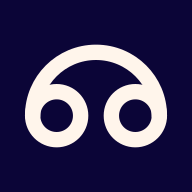
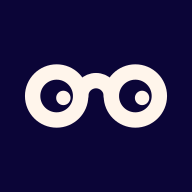
Swap brand defaults to the glasses mark
Replace the embedded favicon, icons, wordmark, mark and email logo with the redesigned brand kit, and rename the docs brand-kit monogram files to baoopn-mark-*. Slot keys and API names stay the same. The email logo is now 640x264 (same aspect), so tests that pin its size use the new dimensions; the rendered width stays 116.

Changed region(s): [[0.125, 0.2188, 0.875, 0.7812]]

diff --git a/web/src/lib/admin/components/BrandMark.svelte b/web/src/lib/admin/components/BrandMark.svelte
@@ -9,7 +9,7 @@
 	const inverse = $derived(brandSize(brand, 'monogram_inverse', 64, 64));
 </script>
 
-<!-- Brand-kit monogram: primary (navy badge) by day, inverse by night. -->
+<!-- Brand-kit glasses mark: primary (navy badge) by day, inverse by night. -->
 <img
 	src={brandSrc(brand, 'monogram_primary')}
 	alt=""

diff --git a/internal/mail/layout_brand_test.go b/internal/mail/layout_brand_test.go
@@ -49,7 +49,7 @@ const testLogo = "https://media.example.test/brand/email-logo.0123456789abcdef.p
 func TestEmailLogo(t *testing.T) {
 	for _, personal := range []bool{false, true} {
 		b := testBrand
-		b.LogoURL, b.LogoWidth, b.LogoHeight = testLogo, 480, 198
+		b.LogoURL, b.LogoWidth, b.LogoHeight = testLogo, 640, 264
 		_, html := render(t, Doc{Brand: b, Personal: personal, Preheader: "Hello there", Kicker: "K", Title: "T",
 			Blocks: []Block{{Kind: Para, Text: "Hello there"}}, Footer: "F"})
 		checkSafe(t, b, html)

diff --git a/internal/brand/brand_test.go b/internal/brand/brand_test.go
@@ -393,7 +393,7 @@ func TestAbsoluteAsset(t *testing.T) {
 	s, f, _, _ := newTestStore(t)
 	key := s.defaults[EmailLogo].key
 	a, err := s.AbsoluteAsset(ctx, EmailLogo, "https://site.example.com/")
-	if err != nil || a.URL != "https://media.example.com/"+key || a.Width != 480 || a.Height != 198 {
+	if err != nil || a.URL != "https://media.example.com/"+key || a.Width != 640 || a.Height != 264 {
 		t.Fatalf("absolute media URL: %+v %v", a, err)
 	}
 	f.base = "/media/" // no MEDIA_PUBLIC_URL: the site serves /media/*

diff --git a/internal/mail/layout.go b/internal/mail/layout.go
@@ -38,7 +38,7 @@ func (b Brand) logo() *Logo {
 		strings.ContainsAny(b.LogoURL, " \t\r\n\"'<>\\`") {
 		return nil
 	}
-	w := 116 // size unknown: the default logo (480×198) at logoHeight
+	w := 116 // size unknown: the default logo (640×264) at logoHeight
 	if b.LogoWidth > 0 && b.LogoHeight > 0 {
 		w = (logoHeight*b.LogoWidth + b.LogoHeight/2) / b.LogoHeight
 	}

diff --git a/internal/contact/emails_test.go b/internal/contact/emails_test.go
@@ -31,7 +31,7 @@ const goldenLogo = "https://media.example.test/brand/email-logo.0123456789abcdef
 
 func goldenBrandWithLogo() bmail.Brand {
 	b := bmail.BrandOf("https://example.test")
-	b.LogoURL, b.LogoWidth, b.LogoHeight = goldenLogo, 480, 198
+	b.LogoURL, b.LogoWidth, b.LogoHeight = goldenLogo, 640, 264
 	return b
 }
 
